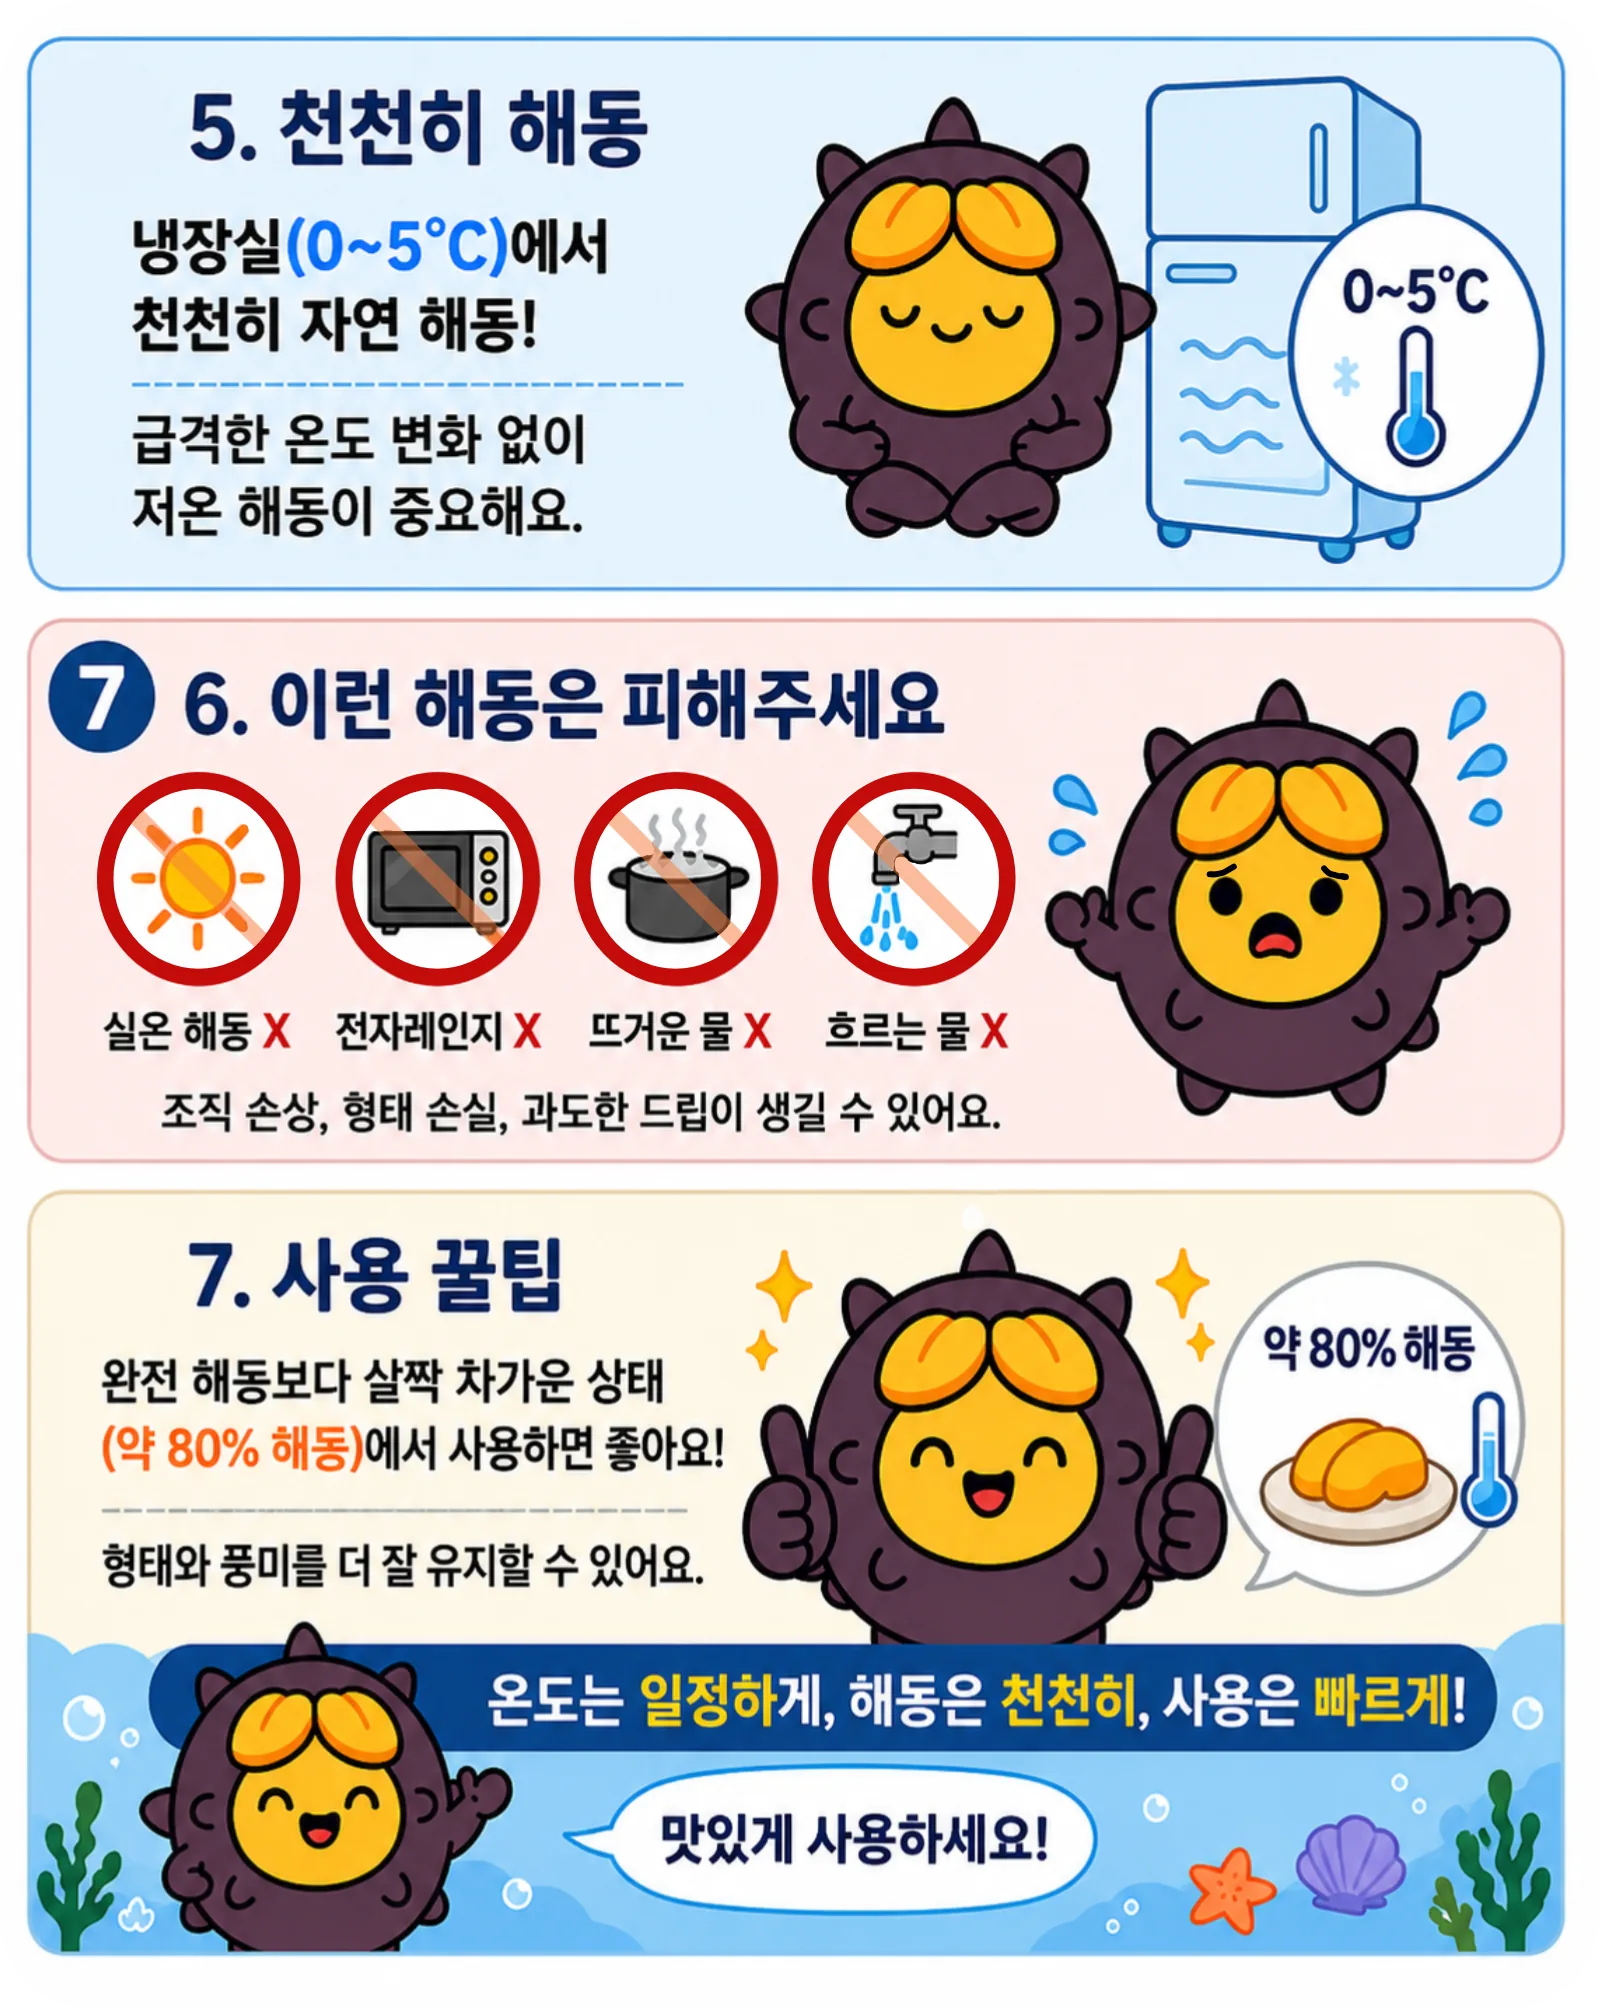
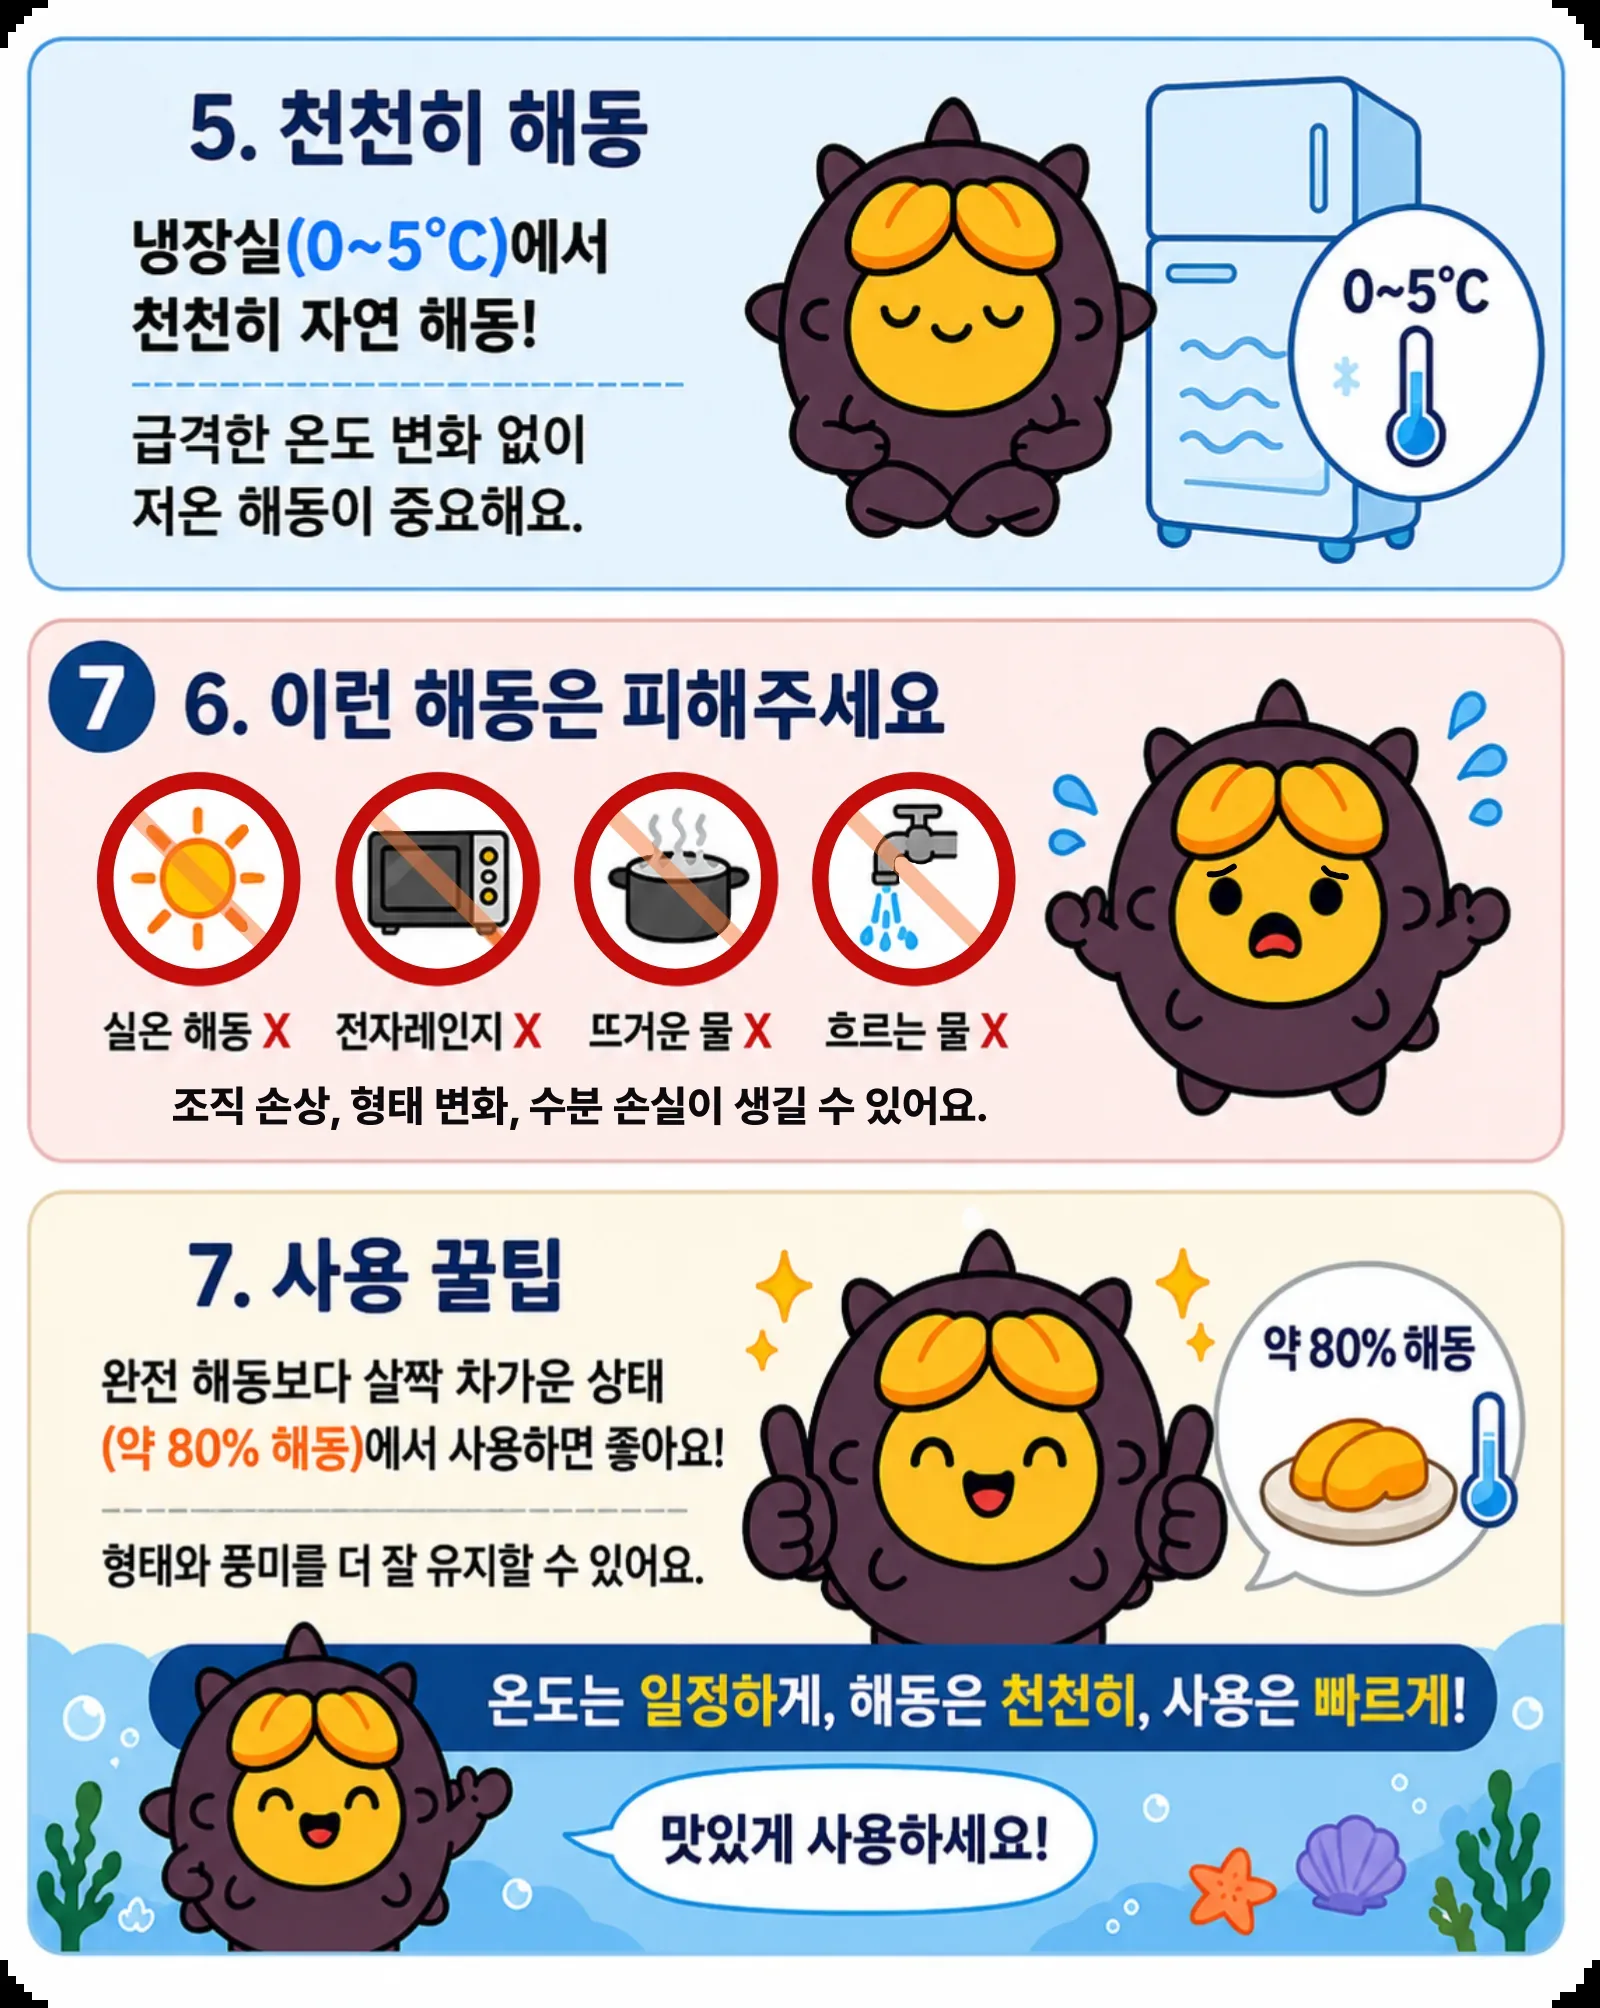
Apply the shop Basic design to the manual
Switch to the shop V21 tokens (navy/blue/sky, SUIT headings, 16px
cards, sky eyebrow over navy title), make the page full width, use an
orange phone CTA, demote Instagram buttons, add the company info
footer, and fix the drip wording inside the tip illustration.

Claude-Session: https://claude.ai/code/session_01RKCYnJ871KR5EXVhrKMsQH

diff --git a/index.html b/index.html
@@ -662,9 +662,73 @@
       html{scroll-behavior:auto}
       *,*::before,*::after{transition-duration:.01ms!important;animation-duration:.01ms!important;animation-iteration-count:1!important}
     }
+    /* ===== BASIC: 오션페루몰 디자인 기준 (skin V21 oceanperu.css 토큰) ===== */
+    @font-face{font-family:"SUIT";font-weight:800;font-display:swap;src:url("https://cdn.jsdelivr.net/npm/@sun-typeface/suit@2.0.5/fonts/static/woff2/SUIT-ExtraBold.woff2") format("woff2")}
+    :root{
+      --navy:#003B6C;--blue:#024DA1;--cyan:#00A0E3;--orange:#F89D1C;--gold:#FAB015;
+      --sky:#eaf3fb;--sky-2:#f4f8fb;--purple:#024DA1;--green:#024DA1;--amber:#F89D1C;--red:#E0850A;
+      --ink:#16212e;--muted:#5b6878;--line:#dfe6ee;--shadow:none;--radius:16px;
+      --lp-head:SUIT,"Pretendard Variable",Pretendard,sans-serif;
+    }
+    .lp{background:#fff}
+    .lp .page{width:100%;box-shadow:none}
+    .lp h1,.lp h2,.lp h3,.lp .phone-number{font-family:var(--lp-head)}
+    /* 헤더: 로고 + 전화 문의(오렌지) */
+    .lp .brand-bar{padding-left:max(20px,calc((100% - 1230px) / 2));padding-right:max(20px,calc((100% - 1230px) / 2));border-bottom-color:var(--line)}
+    .lp .header-cta{background:var(--orange);box-shadow:none;font-weight:800}
+    .lp .header-instagram{display:none}
+    /* 섹션 제목: 왼쪽 정렬, 하늘색 영문 eyebrow + 네이비 국문 */
+    .lp .hero{background:#fff}
+    .lp .visual-card{box-shadow:none;border-radius:var(--radius)}
+    .lp .bridge{max-width:860px;text-align:left}
+    .lp .eyebrow{color:var(--cyan);font-family:var(--lp-head);font-size:12px;font-weight:800;letter-spacing:.16em}
+    .lp .bridge h1{font-weight:800;letter-spacing:-.03em}
+    .lp .content-section.soft{background:var(--sky-2)}
+    .lp .section-head{max-width:860px;text-align:left}
+    .lp .section-no{display:block;min-width:0;height:auto;padding:0;margin-bottom:8px;border-radius:0;background:none;color:var(--cyan);font-family:var(--lp-head);font-size:12px;font-weight:800;letter-spacing:.16em;text-align:left}
+    .lp .section-head h2{font-weight:800;font-size:clamp(24px,2.6vw,34px);letter-spacing:-.03em;line-height:1.32}
+    .lp .section-head p{font-size:15px}
+    .lp .flow-arrow{background:linear-gradient(var(--cyan),rgba(0,160,227,.08))}
+    .lp .flow-arrow::after{border-color:var(--cyan)}
+    /* 카드: 1px 라인, 16px, 경고 카드만 오렌지 포인트 */
+    .lp .manual-card,.lp .manual-card.cold,.lp .manual-card.frozen,.lp .manual-card.thaw,.lp .manual-card.tips{border:1px solid var(--line);border-radius:var(--radius);box-shadow:none}
+    .lp .manual-card.warn{border:1px solid var(--line);border-top:3px solid var(--orange);border-radius:var(--radius);box-shadow:none}
+    .lp .card-head{background:#fff}
+    .lp .card-icon,.lp .manual-card .card-icon{background:var(--sky)}
+    .lp .temp-badge,.lp .manual-card .temp-badge{background:var(--sky);color:var(--navy)}
+    .lp .dot,.lp .manual-card .dot{background:var(--navy)}
+    .lp .em,.lp .em.purple,.lp .em.green{color:var(--blue)}
+    .lp .tip-box,.lp .manual-card .tip-box{border-left-color:var(--cyan);background:var(--sky-2);color:var(--ink)}
+    .lp .transition-copy{background:var(--sky-2);border-color:var(--line);color:var(--ink)}
+    .lp .warn-item{border-color:#f6d6a8;background:#fff8ee}
+    .lp .warn-item strong{color:#b8650a}
+    .lp .warn-item span{color:var(--muted)}
+    .lp .tip-item{border-color:var(--line);background:#fff}
+    .lp .tip-item strong{color:var(--navy)}
+    .lp .tip-item p{color:var(--muted)}
+    /* 문의: 네이비 단색, 전화 = 오렌지, 인스타 = 보조 링크 */
+    .lp .contact-card{background:var(--navy);border-radius:var(--radius);box-shadow:none}
+    .lp .contact-copy small{color:var(--cyan);letter-spacing:.16em}
+    .lp .phone-btn{background:var(--orange);color:#fff;box-shadow:none;border-radius:999px}
+    .lp .kakao-btn{border-radius:999px}
+    .lp .instagram-btn{background:transparent;box-shadow:none;border:1px solid rgba(255,255,255,.35);border-radius:999px;font-weight:700}
+    /* 푸터: 사업자 정보 + 채널 */
+    .lp .page-footer{background:var(--sky-2);color:var(--muted);align-items:flex-start;justify-content:flex-start;padding-left:max(20px,calc((100% - 1230px) / 2));padding-right:max(20px,calc((100% - 1230px) / 2))}
+    .lp .page-footer span{color:var(--navy)}
+    .lp .footer-biz{margin-top:12px;font-size:12px;line-height:1.8;color:var(--muted)}
+    .lp .footer-biz strong{color:var(--navy)}
+    .lp .footer-channel-row{justify-content:flex-start}
+    .lp .footer-channel-row a{border-radius:999px}
+    .lp .footer-phone{background:var(--orange)}
+    .lp .footer-instagram{background:#fff;color:var(--navy);border:1px solid var(--line)}
+    .lp .floating-kakao{background:var(--orange);box-shadow:0 10px 24px rgba(248,157,28,.3)}
+    @media(max-width:720px){
+      .lp .page-footer{align-items:flex-start;text-align:left}
+    }
+
   </style>
 </head>
-<body>
+<body class="lp">
   <!-- Google Tag Manager (noscript) -->
    <noscript><iframe src="https://www.googletagmanager.com/ns.html?id=GTM-NGX726W6"
    height="0" width="0" style="display:none;visibility:hidden"></iframe></noscript>
@@ -696,10 +760,10 @@
         </div>
 
         <div class="bridge">
-          <p class="eyebrow">🐋 OCEANPERU RECOMMENDED GUIDE</p>
+          <p class="eyebrow">OCEANPERU RECOMMENDED GUIDE</p>
           <h1 id="manual-title">오션페루가 추천하는<br>우니 보관·해동 메뉴얼</h1>
           <strong class="bridge-catch">보관 온도는 일정하게, 해동은 천천히, 사용은 빠르게</strong>
-          <p>우니는 온도 변화에 민감한 수산물입니다.<br>제품의 색상과 형태, 풍미를 좋은 상태로 유지할 수 있도록<br>아래 가이드를 순서대로 확인해 주세요.</p>
+          <p>우니는 온도 변화에 민감한 수산물입니다.<br> 제품의 색상과 형태, 풍미를 좋은 상태로 유지할 수 있도록<br> 아래 가이드를 순서대로 확인해 주세요.</p>
 
           <div class="bridge-note">
             제품 상태에 따라 <strong>냉장 보관</strong>과 <strong>냉동 보관</strong> 기준을 먼저 확인한 뒤, 냉동 제품은 이어지는 <strong>저온 해동 방법</strong>을 순서대로 확인해 주세요.
@@ -717,7 +781,7 @@
 
       <section class="content-section soft" aria-labelledby="storage-title">
         <div class="section-head">
-          <span class="section-no">01</span>
+          <span class="section-no">STEP 01</span>
           <h2 id="storage-title">먼저, 제품 상태에 맞는<br>보관 방법을 확인해 주세요</h2>
           <p>냉장 제품과 냉동 제품은 권장 온도와 사용 시점이 다릅니다.</p>
         </div>
@@ -771,7 +835,7 @@
 
       <section class="content-section" aria-labelledby="thaw-title">
         <div class="section-head">
-          <span class="section-no">02</span>
+          <span class="section-no">STEP 02</span>
           <h2 id="thaw-title">필요한 양만 꺼낸 뒤,<br>냉장실에서 천천히 해동해 주세요</h2>
           <p>보관이 끝났다면 다음은 해동 단계입니다. 급격한 온도 변화를 피하는 것이 핵심입니다.</p>
         </div>
@@ -823,7 +887,7 @@
 
       <section class="content-section soft" aria-labelledby="tip-title">
         <div class="section-head">
-          <span class="section-no">03</span>
+          <span class="section-no">STEP 03</span>
           <h2 id="tip-title">마지막으로 기억하면 좋은<br>오션페루의 사용 팁입니다</h2>
           <p>보관과 해동의 핵심을 한 번 더 확인해 주세요.</p>
         </div>
@@ -863,9 +927,9 @@
             <a class="phone-number" href="tel:0216881258">02-1688-1258</a>
             <p class="cs-hours"><span>평일 09:00~17:00</span> · <span>점심 12:30~13:30</span> · <span>주말·공휴일 휴무</span></p>
             <div class="contact-actions">
-              <a class="phone-btn" href="tel:0216881258">📞 전화 연결</a>
-              <a class="kakao-btn" href="https://pf.kakao.com/_DgHsG" target="_blank" rel="noopener noreferrer">💬 통관·배송 공지 받기</a>
-              <a class="instagram-btn" href="https://www.instagram.com/oceanperu_official/" target="_blank" rel="noopener noreferrer">📷 인스타그램 보기</a>
+              <a class="phone-btn" href="tel:0216881258">전화 연결</a>
+              <a class="kakao-btn" href="https://pf.kakao.com/_DgHsG" target="_blank" rel="noopener noreferrer">통관·배송 공지 받기</a>
+              <a class="instagram-btn" href="https://www.instagram.com/oceanperu_official/" target="_blank" rel="noopener noreferrer">인스타그램</a>
             </div>
             <div class="channel-url">카카오톡 채널은 우니 통관 일정, 배송 일정, 운영 공지를 전달하는 공지 전용 채널입니다.<br>제품 관련 문의는 전화로 안내해 드립니다.</div>
           </div>
@@ -877,8 +941,9 @@
       <img class="footer-logo" src="assets/oceanperu-logo-square.webp" alt="오션페루" width="56" height="70" loading="lazy" decoding="async">
       <div class="footer-copy">
         <p>본 메뉴얼은 <span>오션페루</span>가 제품 상태 유지를 돕기 위해 작성한 공식 가이드입니다.<br>상품별 최종 보관방법과 소비기한은 실제 제품 라벨을 기준으로 확인해 주세요.</p>
+        <p class="footer-biz"><strong>주식회사 오션페루</strong><br>대표자 : 이종칠 · 개인정보관리책임자 : 이종칠<br>사업자등록번호 : 196-86-03113 · 통신판매업신고번호 : 제2025-서울영등포-1317호<br>서울 영등포구 선유로49길 23 아이에스BIZ타워Ⅱ차 B103<br>CS 02-1688-1258 · 평일 09:00~17:00 (점심 12:30~13:30) · 주말·공휴일 휴무<br>Copyright(c) 주식회사 오션페루. All Rights Reserved.</p>
         <div class="footer-channel-row">
-          <a class="footer-phone" href="tel:0216881258">📞 02-1688-1258</a>
+          <a class="footer-phone" href="tel:0216881258">02-1688-1258</a>
           <a class="footer-kakao" href="https://pf.kakao.com/_DgHsG" target="_blank" rel="noopener noreferrer">카카오톡 공지 채널 ↗</a>
           <a class="footer-instagram" href="https://www.instagram.com/oceanperu_official/" target="_blank" rel="noopener noreferrer">Instagram ↗</a>
         </div>
